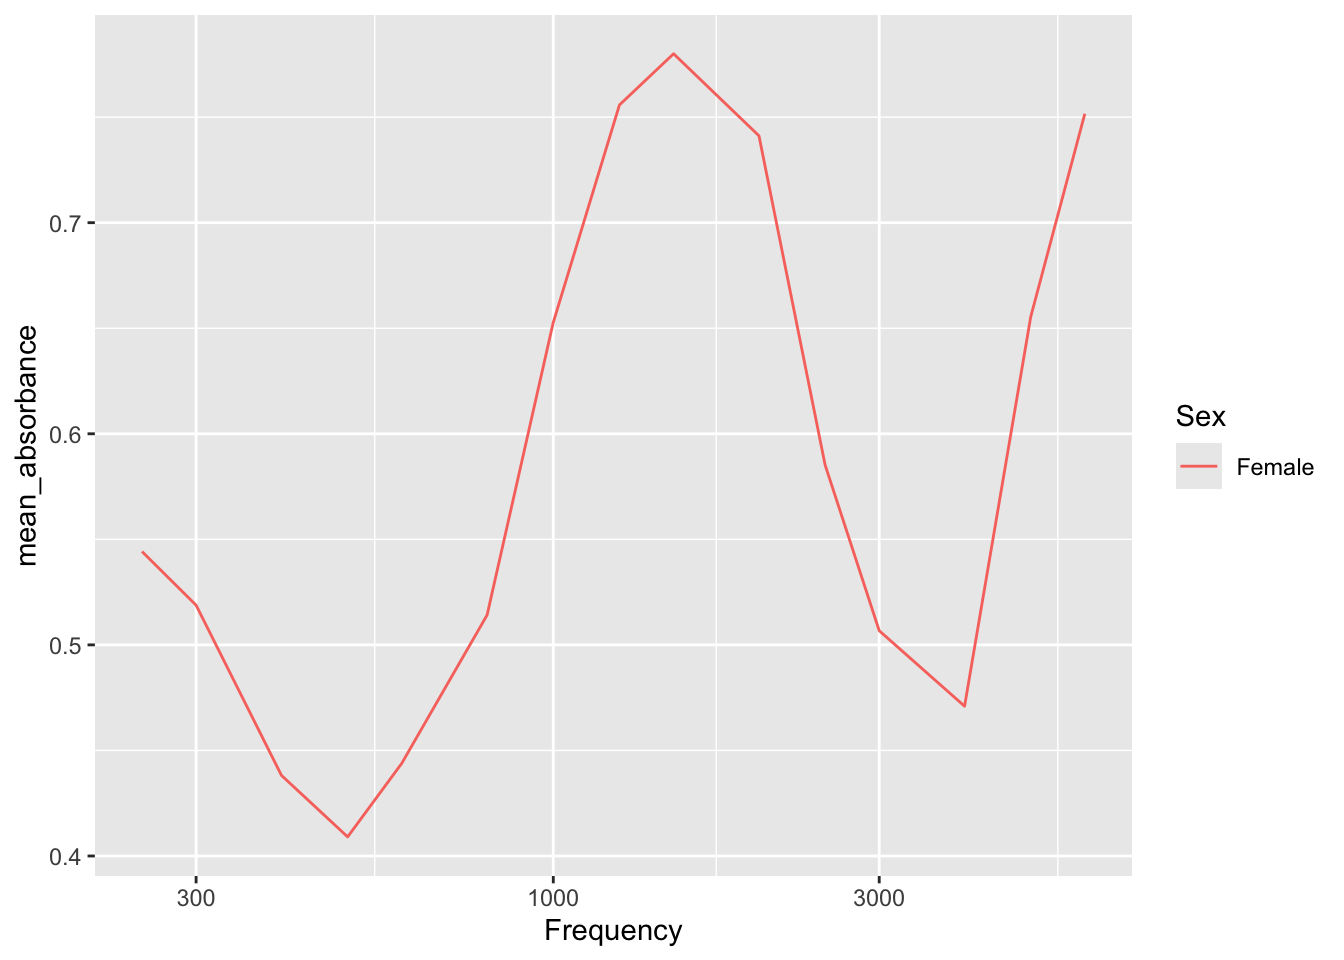
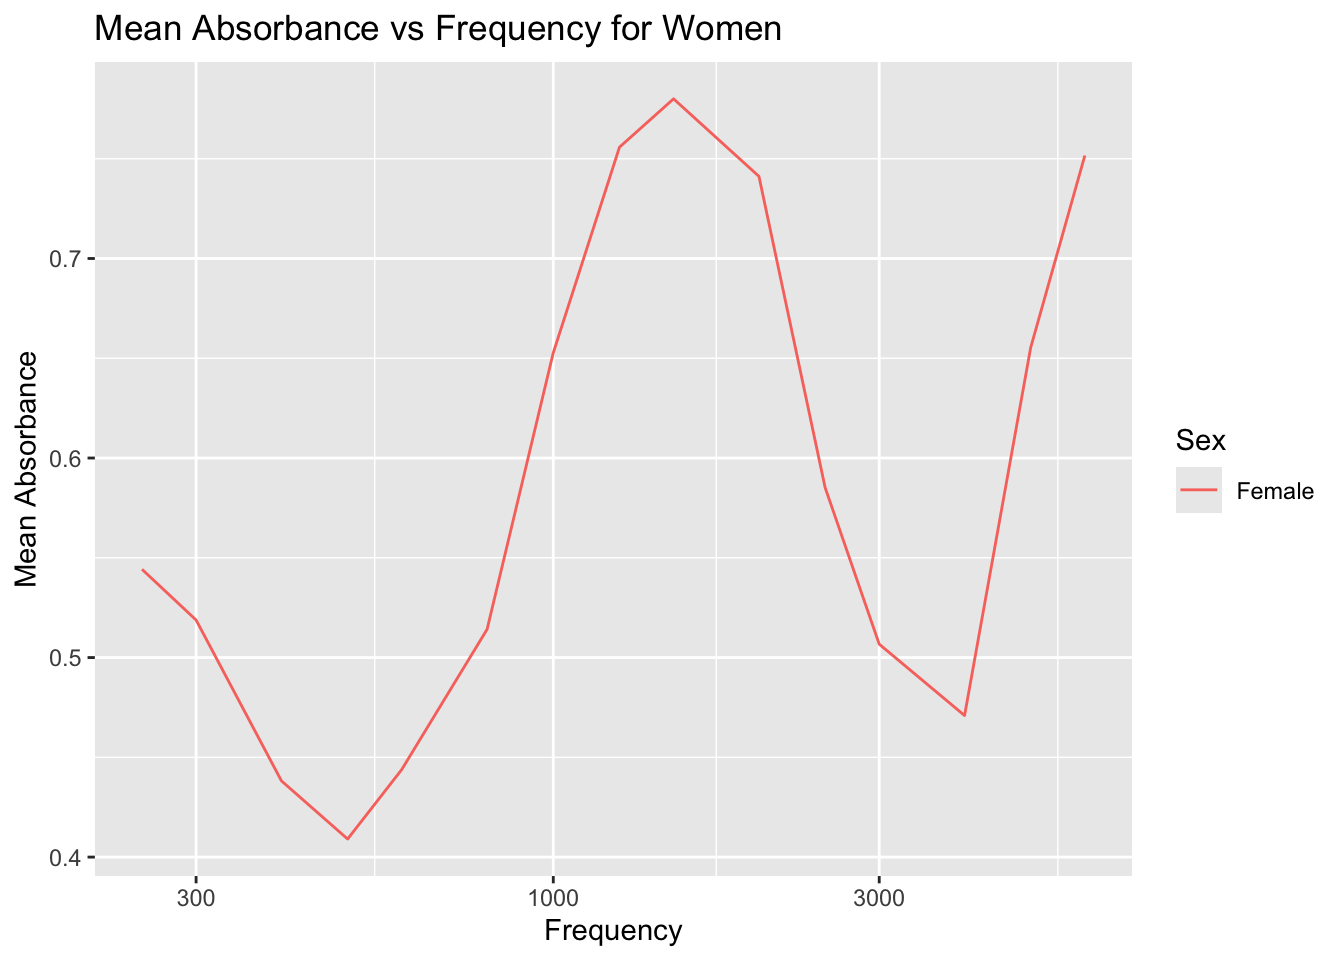
finsihed proj 4

diff --git a/docs/Project4.html b/docs/Project4.html
@@ -203,6 +203,7 @@ pre > code.sourceCode > span > a:first-child::before { text-decoration: underlin
 </header>
 
 
+<p>To complete this project, I plan to look at the WAI database and select the tables which detail the studies and information about the studies. I then plan on finding the average absorbence of the data and plot that against the frequency of the data.</p>
 <div class="cell">
 <div class="sourceCode cell-code" id="cb1"><pre class="sourceCode r code-with-copy"><code class="sourceCode r"><span id="cb1-1"><a href="#cb1-1" aria-hidden="true" tabindex="-1"></a><span class="fu">library</span>(mdsr)</span>
 <span id="cb1-2"><a href="#cb1-2" aria-hidden="true" tabindex="-1"></a><span class="fu">library</span>(dbplyr)</span>
@@ -259,6 +260,7 @@ pre > code.sourceCode > span > a:first-child::before { text-decoration: underlin
 </table>
 </div>
 </div>
+<p>This table shows all the available tables in the WAI database.</p>
 <div class="cell">
 <div class="sourceCode cell-code" id="cb4"><pre class="sourceCode sql code-with-copy"><code class="sourceCode sql"><span id="cb4-1"><a href="#cb4-1" aria-hidden="true" tabindex="-1"></a><span class="kw">SELECT</span> <span class="op">*</span></span>
 <span id="cb4-2"><a href="#cb4-2" aria-hidden="true" tabindex="-1"></a><span class="kw">FROM</span> Measurements</span>
@@ -399,6 +401,7 @@ pre > code.sourceCode > span > a:first-child::before { text-decoration: underlin
 </table>
 </div>
 </div>
+<p>This table shows what the measurements table looks like and the information it holds.</p>
 <p>::: {.cell}</p>
 <div class="sourceCode cell-code" id="cb5"><pre class="sourceCode sql code-with-copy"><code class="sourceCode sql"><span id="cb5-1"><a href="#cb5-1" aria-hidden="true" tabindex="-1"></a><span class="kw">SELECT</span> <span class="op">*</span></span>
 <span id="cb5-2"><a href="#cb5-2" aria-hidden="true" tabindex="-1"></a><span class="kw">FROM</span> PI_Info</span>
@@ -626,6 +629,7 @@ pre > code.sourceCode > span > a:first-child::before { text-decoration: underlin
 <pre><code>                                                                                                                                                                                                                                                                                                                                                                                                                                                                                                                                                                                                                                                                                                                                                                                                                                                                                                                                                                                                                                                                                                                                                                                                                                                                                                                                                                                                                                                                                                                                                                                                                                                                                              |Sreedevi Aithal   |Sreedevi.Aithal@health.qld.gov.au |24-Apr-2023   |                                                                                                                                                                                                      |</code></pre>
 </div>
 <p>:::</p>
+<p>This is the PI Info table.</p>
 <div class="cell">
 <div class="sourceCode cell-code" id="cb14"><pre class="sourceCode sql code-with-copy"><code class="sourceCode sql"><span id="cb14-1"><a href="#cb14-1" aria-hidden="true" tabindex="-1"></a><span class="kw">SELECT</span> <span class="op">*</span> <span class="kw">FROM</span> PI_Info </span>
 <span id="cb14-2"><a href="#cb14-2" aria-hidden="true" tabindex="-1"></a><span class="kw">WHERE</span> <span class="kw">Identifier</span> <span class="op">=</span> <span class="ot">"Abur_2014"</span>; </span></code><button title="Copy to Clipboard" class="code-copy-button"><i class="bi"></i></button></pre></div>
@@ -700,6 +704,7 @@ pre > code.sourceCode > span > a:first-child::before { text-decoration: underlin
 <p>” |Susan Voss |svoss@smith.edu |24-Aug-2016 |Measurements made on 7 subjects across multiple sessions and 3 probe locations for each subject. Database includes measurements at only the deepest insertion depth (Position 1) and Channel B only. |</p>
 </div>
 </div>
+<p>This is one specific row from the PI Info table and it gives details about one specific study</p>
 <div class="cell">
 <div class="sourceCode cell-code" id="cb15"><pre class="sourceCode sql code-with-copy"><code class="sourceCode sql"><span id="cb15-1"><a href="#cb15-1" aria-hidden="true" tabindex="-1"></a><span class="kw">SELECT</span> <span class="op">*</span> <span class="kw">FROM</span> Measurements </span>
 <span id="cb15-2"><a href="#cb15-2" aria-hidden="true" tabindex="-1"></a><span class="kw">WHERE</span> <span class="kw">Identifier</span> <span class="op">=</span> <span class="ot">"Abur_2014"</span>; </span></code><button title="Copy to Clipboard" class="code-copy-button"><i class="bi"></i></button></pre></div>
@@ -929,6 +934,7 @@ pre > code.sourceCode > span > a:first-child::before { text-decoration: underlin
 </table>
 </div>
 </div>
+<p>This is more information about the study.</p>
 <div class="cell" data-output.var="graph">
 <div class="sourceCode cell-code" id="cb16"><pre class="sourceCode sql code-with-copy"><code class="sourceCode sql"><span id="cb16-1"><a href="#cb16-1" aria-hidden="true" tabindex="-1"></a><span class="kw">SELECT</span> <span class="kw">Identifier</span>, Frequency, LOG10(Frequency) <span class="kw">AS</span> log_frequency,  <span class="fu">AVG</span>(Absorbance) <span class="kw">AS</span> mean_absorbance </span>
 <span id="cb16-2"><a href="#cb16-2" aria-hidden="true" tabindex="-1"></a><span class="kw">FROM</span> Measurements</span>
@@ -942,7 +948,11 @@ pre > code.sourceCode > span > a:first-child::before { text-decoration: underlin
 <span id="cb17-3"><a href="#cb17-3" aria-hidden="true" tabindex="-1"></a>   <span class="at">color =</span>  Identifier,</span>
 <span id="cb17-4"><a href="#cb17-4" aria-hidden="true" tabindex="-1"></a>   <span class="at">group =</span> Identifier)) <span class="sc">+</span></span>
 <span id="cb17-5"><a href="#cb17-5" aria-hidden="true" tabindex="-1"></a>  <span class="fu">geom_line</span>()<span class="sc">+</span></span>
-<span id="cb17-6"><a href="#cb17-6" aria-hidden="true" tabindex="-1"></a>  <span class="fu">scale_x_log10</span>()</span></code><button title="Copy to Clipboard" class="code-copy-button"><i class="bi"></i></button></pre></div>
+<span id="cb17-6"><a href="#cb17-6" aria-hidden="true" tabindex="-1"></a>  <span class="fu">scale_x_log10</span>()<span class="sc">+</span></span>
+<span id="cb17-7"><a href="#cb17-7" aria-hidden="true" tabindex="-1"></a>      <span class="fu">labs</span>(</span>
+<span id="cb17-8"><a href="#cb17-8" aria-hidden="true" tabindex="-1"></a>    <span class="at">title =</span> <span class="st">"Mean Absorbance From Each Publication in the WAI Database"</span>,   </span>
+<span id="cb17-9"><a href="#cb17-9" aria-hidden="true" tabindex="-1"></a>    <span class="at">x =</span> <span class="st">"Frequency (Hz)"</span>,           </span>
+<span id="cb17-10"><a href="#cb17-10" aria-hidden="true" tabindex="-1"></a>    <span class="at">y =</span> <span class="st">"Mean Absorbance"</span>  )</span></code><button title="Copy to Clipboard" class="code-copy-button"><i class="bi"></i></button></pre></div>
 <div class="cell-output-display">
 <div>
 <figure class="figure">
@@ -951,6 +961,7 @@ pre > code.sourceCode > span > a:first-child::before { text-decoration: underlin
 </div>
 </div>
 </div>
+<p>This graph shows the mean absorbance From each publication in the WAI database</p>
 <div class="cell">
 <div class="sourceCode cell-code" id="cb18"><pre class="sourceCode sql code-with-copy"><code class="sourceCode sql"><span id="cb18-1"><a href="#cb18-1" aria-hidden="true" tabindex="-1"></a> <span class="kw">SELECT</span> p.<span class="kw">Identifier</span>, p.<span class="dt">Year</span>, p.AuthorsShortList, </span>
 <span id="cb18-2"><a href="#cb18-2" aria-hidden="true" tabindex="-1"></a> <span class="fu">COUNT</span>(<span class="kw">DISTINCT</span> SubjectNumber, Ear) <span class="kw">AS</span> ear_you </span>
@@ -1035,6 +1046,7 @@ pre > code.sourceCode > span > a:first-child::before { text-decoration: underlin
 </table>
 </div>
 </div>
+<p>This table shows information about the publications in the database.</p>
 <div class="cell">
 <div class="sourceCode cell-code" id="cb19"><pre class="sourceCode sql code-with-copy"><code class="sourceCode sql"><span id="cb19-1"><a href="#cb19-1" aria-hidden="true" tabindex="-1"></a> <span class="kw">SELECT</span> p.<span class="kw">Identifier</span>, <span class="dt">Year</span>, AuthorsShortList, </span>
 <span id="cb19-2"><a href="#cb19-2" aria-hidden="true" tabindex="-1"></a> <span class="fu">COUNT</span>(<span class="kw">DISTINCT</span> SubjectNumber, Ear) <span class="kw">AS</span> ears,</span>
@@ -1139,6 +1151,7 @@ pre > code.sourceCode > span > a:first-child::before { text-decoration: underlin
 </table>
 </div>
 </div>
+<p>This table shows information about the publications in the database.</p>
 <div class="cell" data-output.var="graph2">
 <div class="sourceCode cell-code" id="cb20"><pre class="sourceCode sql code-with-copy"><code class="sourceCode sql"><span id="cb20-1"><a href="#cb20-1" aria-hidden="true" tabindex="-1"></a> <span class="kw">SELECT</span> p.<span class="kw">Identifier</span>, p.<span class="dt">Year</span>, p.AuthorsShortList, Frequency,</span>
 <span id="cb20-2"><a href="#cb20-2" aria-hidden="true" tabindex="-1"></a> LOG10(Frequency) <span class="kw">AS</span> log_frequency, <span class="fu">AVG</span>(Absorbance) <span class="kw">AS</span> mean_absorbance,</span>
@@ -1156,7 +1169,11 @@ pre > code.sourceCode > span > a:first-child::before { text-decoration: underlin
 <span id="cb21-3"><a href="#cb21-3" aria-hidden="true" tabindex="-1"></a>   <span class="at">color =</span>  legend,</span>
 <span id="cb21-4"><a href="#cb21-4" aria-hidden="true" tabindex="-1"></a>   <span class="at">group =</span> legend)) <span class="sc">+</span></span>
 <span id="cb21-5"><a href="#cb21-5" aria-hidden="true" tabindex="-1"></a>  <span class="fu">geom_line</span>()<span class="sc">+</span></span>
-<span id="cb21-6"><a href="#cb21-6" aria-hidden="true" tabindex="-1"></a>  <span class="fu">scale_x_log10</span>()</span></code><button title="Copy to Clipboard" class="code-copy-button"><i class="bi"></i></button></pre></div>
+<span id="cb21-6"><a href="#cb21-6" aria-hidden="true" tabindex="-1"></a>  <span class="fu">scale_x_log10</span>()<span class="sc">+</span></span>
+<span id="cb21-7"><a href="#cb21-7" aria-hidden="true" tabindex="-1"></a>        <span class="fu">labs</span>(</span>
+<span id="cb21-8"><a href="#cb21-8" aria-hidden="true" tabindex="-1"></a>    <span class="at">title =</span> <span class="st">"Mean Absorbance From Each Publication in the WAI Database"</span>,   </span>
+<span id="cb21-9"><a href="#cb21-9" aria-hidden="true" tabindex="-1"></a>    <span class="at">x =</span> <span class="st">"Frequency (Hz)"</span>,           </span>
+<span id="cb21-10"><a href="#cb21-10" aria-hidden="true" tabindex="-1"></a>    <span class="at">y =</span> <span class="st">"Mean Absorbance"</span>  )</span></code><button title="Copy to Clipboard" class="code-copy-button"><i class="bi"></i></button></pre></div>
 <div class="cell-output-display">
 <div>
 <figure class="figure">
@@ -1165,6 +1182,7 @@ pre > code.sourceCode > span > a:first-child::before { text-decoration: underlin
 </div>
 </div>
 </div>
+<p>This graph shows the mean absorbance From each publication in the WAI database, with details about measurement and equipement used in each study.</p>
 <div class="cell">
 <div class="sourceCode cell-code" id="cb22"><pre class="sourceCode sql code-with-copy"><code class="sourceCode sql"><span id="cb22-1"><a href="#cb22-1" aria-hidden="true" tabindex="-1"></a><span class="kw">SELECT</span> <span class="op">*</span> </span>
 <span id="cb22-2"><a href="#cb22-2" aria-hidden="true" tabindex="-1"></a><span class="kw">FROM</span> Subjects</span></code><button title="Copy to Clipboard" class="code-copy-button"><i class="bi"></i></button></pre></div>
@@ -1334,6 +1352,7 @@ pre > code.sourceCode > span > a:first-child::before { text-decoration: underlin
 </table>
 </div>
 </div>
+<p>This table shows the data in the subjects table.</p>
 <div class="cell" data-output.var="graphforQ2">
 <div class="sourceCode cell-code" id="cb23"><pre class="sourceCode sql code-with-copy"><code class="sourceCode sql"><span id="cb23-1"><a href="#cb23-1" aria-hidden="true" tabindex="-1"></a><span class="kw">SELECT</span> Sex, Frequency, <span class="fu">AVG</span>(Absorbance) <span class="kw">AS</span> mean_absorbance, m.<span class="kw">Identifier</span> </span>
 <span id="cb23-2"><a href="#cb23-2" aria-hidden="true" tabindex="-1"></a><span class="kw">FROM</span> Subjects <span class="kw">AS</span> s </span>
@@ -1353,6 +1372,7 @@ pre > code.sourceCode > span > a:first-child::before { text-decoration: underlin
 6 Female       400       0.4381958 Aithal_2013</code></pre>
 </div>
 </div>
+<p>This tabe shoes the frequency, mean absorbance, and sex of participants for one specific study, Aithal 2013.</p>
 <div class="cell">
 <div class="sourceCode cell-code" id="cb26"><pre class="sourceCode r code-with-copy"><code class="sourceCode r"><span id="cb26-1"><a href="#cb26-1" aria-hidden="true" tabindex="-1"></a>graphforQ2 <span class="sc">|&gt;</span></span>
 <span id="cb26-2"><a href="#cb26-2" aria-hidden="true" tabindex="-1"></a>  <span class="fu">filter</span>(Sex <span class="sc">==</span> <span class="st">"Female"</span>) <span class="sc">|&gt;</span></span>
@@ -1360,7 +1380,11 @@ pre > code.sourceCode > span > a:first-child::before { text-decoration: underlin
 <span id="cb26-4"><a href="#cb26-4" aria-hidden="true" tabindex="-1"></a>   <span class="at">color =</span>  Sex,</span>
 <span id="cb26-5"><a href="#cb26-5" aria-hidden="true" tabindex="-1"></a>   <span class="at">group =</span> Sex)) <span class="sc">+</span></span>
 <span id="cb26-6"><a href="#cb26-6" aria-hidden="true" tabindex="-1"></a>  <span class="fu">geom_line</span>() <span class="sc">+</span></span>
-<span id="cb26-7"><a href="#cb26-7" aria-hidden="true" tabindex="-1"></a>  <span class="fu">scale_x_log10</span>()</span></code><button title="Copy to Clipboard" class="code-copy-button"><i class="bi"></i></button></pre></div>
+<span id="cb26-7"><a href="#cb26-7" aria-hidden="true" tabindex="-1"></a>  <span class="fu">scale_x_log10</span>()<span class="sc">+</span></span>
+<span id="cb26-8"><a href="#cb26-8" aria-hidden="true" tabindex="-1"></a>    <span class="fu">labs</span>(</span>
+<span id="cb26-9"><a href="#cb26-9" aria-hidden="true" tabindex="-1"></a>    <span class="at">title =</span> <span class="st">"Mean Absorbance vs Frequency for Women"</span>,   </span>
+<span id="cb26-10"><a href="#cb26-10" aria-hidden="true" tabindex="-1"></a>    <span class="at">x =</span> <span class="st">"Frequency"</span>,           </span>
+<span id="cb26-11"><a href="#cb26-11" aria-hidden="true" tabindex="-1"></a>    <span class="at">y =</span> <span class="st">"Mean Absorbance"</span>  )</span></code><button title="Copy to Clipboard" class="code-copy-button"><i class="bi"></i></button></pre></div>
 <div class="cell-output-display">
 <div>
 <figure class="figure">
@@ -1369,6 +1393,7 @@ pre > code.sourceCode > span > a:first-child::before { text-decoration: underlin
 </div>
 </div>
 </div>
+<p>This graph shows the frequency and absorbance for women in the study.</p>
 <div class="cell">
 <div class="sourceCode cell-code" id="cb27"><pre class="sourceCode r code-with-copy"><code class="sourceCode r"><span id="cb27-1"><a href="#cb27-1" aria-hidden="true" tabindex="-1"></a>graphforQ2 <span class="sc">|&gt;</span></span>
 <span id="cb27-2"><a href="#cb27-2" aria-hidden="true" tabindex="-1"></a>  <span class="fu">filter</span>(Sex <span class="sc">==</span> <span class="st">"Male"</span>) <span class="sc">|&gt;</span></span>
@@ -1376,7 +1401,11 @@ pre > code.sourceCode > span > a:first-child::before { text-decoration: underlin
 <span id="cb27-4"><a href="#cb27-4" aria-hidden="true" tabindex="-1"></a>   <span class="at">color =</span>  Sex,</span>
 <span id="cb27-5"><a href="#cb27-5" aria-hidden="true" tabindex="-1"></a>   <span class="at">group =</span> Sex)) <span class="sc">+</span></span>
 <span id="cb27-6"><a href="#cb27-6" aria-hidden="true" tabindex="-1"></a>  <span class="fu">geom_line</span>() <span class="sc">+</span></span>
-<span id="cb27-7"><a href="#cb27-7" aria-hidden="true" tabindex="-1"></a>  <span class="fu">scale_x_log10</span>()</span></code><button title="Copy to Clipboard" class="code-copy-button"><i class="bi"></i></button></pre></div>
+<span id="cb27-7"><a href="#cb27-7" aria-hidden="true" tabindex="-1"></a>  <span class="fu">scale_x_log10</span>()<span class="sc">+</span></span>
+<span id="cb27-8"><a href="#cb27-8" aria-hidden="true" tabindex="-1"></a>  <span class="fu">labs</span>(</span>
+<span id="cb27-9"><a href="#cb27-9" aria-hidden="true" tabindex="-1"></a>    <span class="at">title =</span> <span class="st">"Mean Absorbance vs Frequency for Men"</span>,   </span>
+<span id="cb27-10"><a href="#cb27-10" aria-hidden="true" tabindex="-1"></a>    <span class="at">x =</span> <span class="st">"Frequency"</span>,           </span>
+<span id="cb27-11"><a href="#cb27-11" aria-hidden="true" tabindex="-1"></a>    <span class="at">y =</span> <span class="st">"Mean Absorbance"</span>  )</span></code><button title="Copy to Clipboard" class="code-copy-button"><i class="bi"></i></button></pre></div>
 <div class="cell-output-display">
 <div>
 <figure class="figure">
@@ -1385,7 +1414,9 @@ pre > code.sourceCode > span > a:first-child::before { text-decoration: underlin
 </div>
 </div>
 </div>
-<p>both male and female are the same values !</p>
+<p>This graph shows the frequency and absorbance for men in the study.</p>
+<p>In this project, I analyzed data from the WAI database to explore the relationship between frequency and absorbance across various studies. I used SQL queries to extract, filter, and calculate the average absorbance values for specific frequencies and grouped the data by study identifiers. These results were then visualized in R using ggplot, with plots on a logarithmic frequency scale to highlight trends. Additionally, I compared absorbance data by sex for a specific study to observe any potential differences, finding that male and female values were the same.</p>
+<p>I got my data from the WAI Database and the graph is modeled from a graph in this study: https://pmc.ncbi.nlm.nih.gov/articles/PMC7093226/</p>
 
 
 
